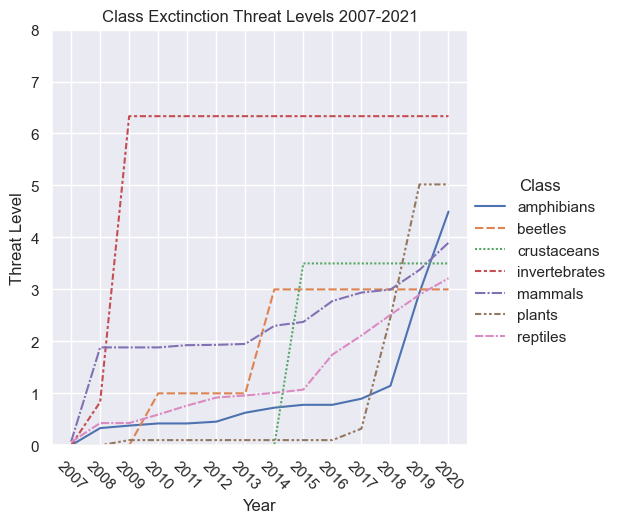
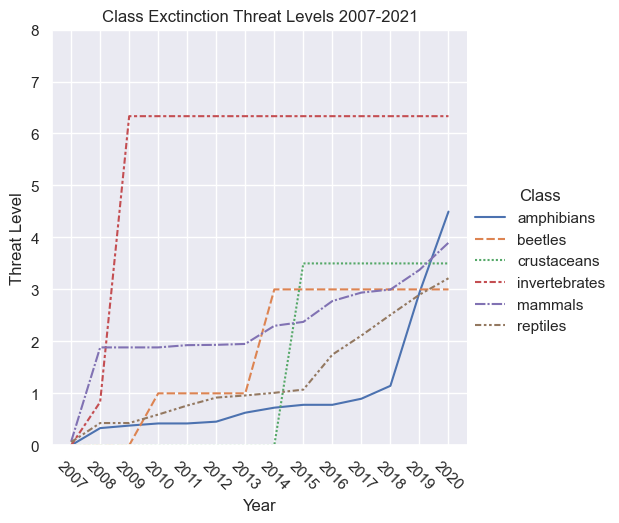
removed plants, renewed graph

diff --git a/Code/utils.py b/Code/utils.py
@@ -216,7 +216,7 @@ def csv_processing(df):
                   "List (2020)", "List (2021)"]]
     mini_df = mini_df.loc[mini_df['Class'].isin(["amphibians", "beetles", "birds"
                                                  "fishes", "crustaceans", "invertebrates",
-                                                 "mammals", "reptiles", "plants"])]
+                                                 "mammals", "reptiles"])]
     for year in range(2007, 2022):
         numerical_exinction_category = extinction_level_numerical(str(year), mini_df)
         column_label = "List (" + str(year) + ")"
